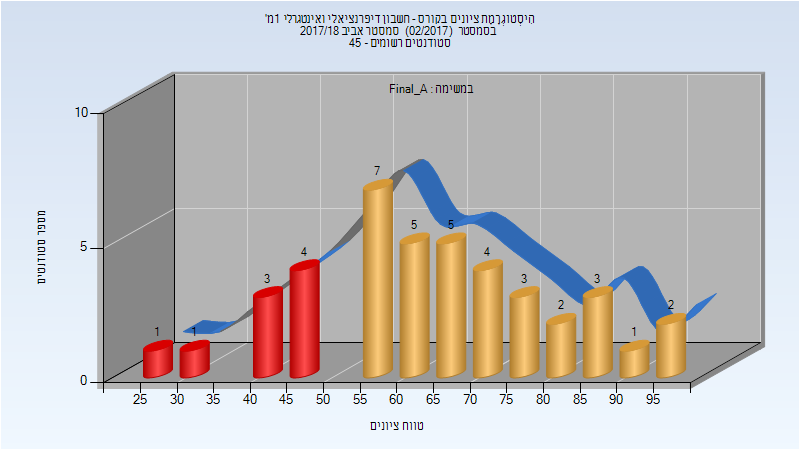
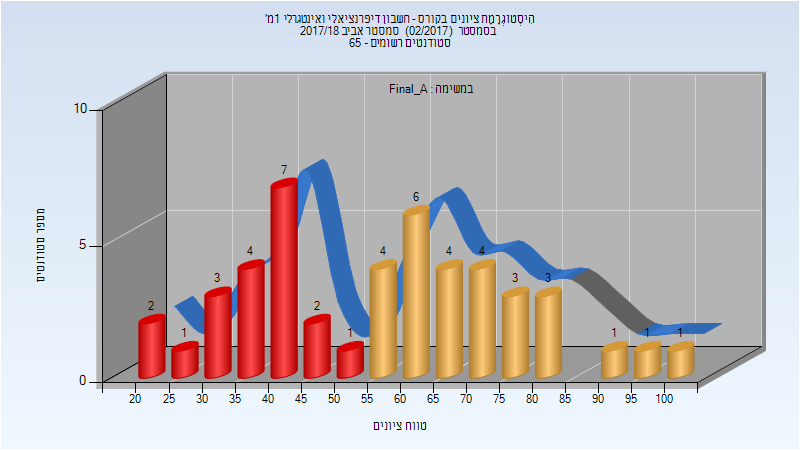
Deploy michael-maltsev/technion-histograms to github.com/michael-maltsev/technion-histograms.git:gh-pages

diff --git a/104018/index.html b/104018/index.html
@@ -1224,11 +1224,15 @@
 </thead>
 <tbody>
 <tr>
-<td>דמיטריוק אלון</td>
+<td>קליינשטרן מיכל</td>
 <td>מרצה - אחראי מקצוע</td>
 </tr>
 <tr>
-<td>ג'יאנג זילין</td>
+<td>גורליק אירנה</td>
+<td>מתרגל</td>
+</tr>
+<tr>
+<td>דמיטריוק אלון</td>
 <td>מרצה</td>
 </tr>
 </tbody>
@@ -1275,13 +1279,13 @@
 </thead>
 <tbody>
 <tr>
-<td>41</td>
-<td>32/9</td>
-<td>78</td>
-<td>26</td>
-<td>99</td>
-<td>64.22</td>
-<td>64</td>
+<td>47</td>
+<td>27/20</td>
+<td>57</td>
+<td>20</td>
+<td>100</td>
+<td>57.191</td>
+<td>58</td>
 </tr>
 </tbody>
 </table>
@@ -1327,13 +1331,13 @@
 </thead>
 <tbody>
 <tr>
-<td>17</td>
-<td>14/3</td>
-<td>82</td>
-<td>15</td>
-<td>85</td>
-<td>62.824</td>
-<td>64</td>
+<td>31</td>
+<td>19/12</td>
+<td>61</td>
+<td>18</td>
+<td>87</td>
+<td>55.774</td>
+<td>60</td>
 </tr>
 </tbody>
 </table>
@@ -1353,13 +1357,13 @@
 </thead>
 <tbody>
 <tr>
-<td>43</td>
-<td>38/5</td>
-<td>88</td>
-<td>15</td>
-<td>99</td>
-<td>67.326</td>
-<td>68</td>
+<td>58</td>
+<td>42/16</td>
+<td>72</td>
+<td>18</td>
+<td>100</td>
+<td>62.172</td>
+<td>63.5</td>
 </tr>
 </tbody>
 </table>

diff --git a/104018/README.md b/104018/README.md
@@ -385,8 +385,9 @@
 
 | איש סגל | תפקיד |
 | ---- | ---- |
-| דמיטריוק אלון | מרצה - אחראי מקצוע |
-| ג'יאנג זילין | מרצה |
+| קליינשטרן מיכל | מרצה - אחראי מקצוע |
+| גורליק אירנה | מתרגל |
+| דמיטריוק אלון | מרצה |
 
 ### מבחן מועד א'
 
@@ -402,7 +403,7 @@
 
 | סטודנטים | עברו/נכשלו | אחוז עוברים | ציון מינימלי | ציון מקסימלי | ממוצע | חציון |
 | ---- | ---- | ---- | ---- | ---- | ---- | ---- |
-| 41 | 32/9 | 78 | 26 | 99 | 64.22 | 64 |
+| 47 | 27/20 | 57 | 20 | 100 | 57.191 | 58 |
 
 ### מבחן מועד ב'
 
@@ -418,7 +419,7 @@
 
 | סטודנטים | עברו/נכשלו | אחוז עוברים | ציון מינימלי | ציון מקסימלי | ממוצע | חציון |
 | ---- | ---- | ---- | ---- | ---- | ---- | ---- |
-| 17 | 14/3 | 82 | 15 | 85 | 62.824 | 64 |
+| 31 | 19/12 | 61 | 18 | 87 | 55.774 | 60 |
 
 ### סופי
 
@@ -426,7 +427,7 @@
 
 | סטודנטים | עברו/נכשלו | אחוז עוברים | ציון מינימלי | ציון מקסימלי | ממוצע | חציון |
 | ---- | ---- | ---- | ---- | ---- | ---- | ---- |
-| 43 | 38/5 | 88 | 15 | 99 | 67.326 | 68 |
+| 58 | 42/16 | 72 | 18 | 100 | 62.172 | 63.5 |
 
 ## חורף 2018-2019
 
